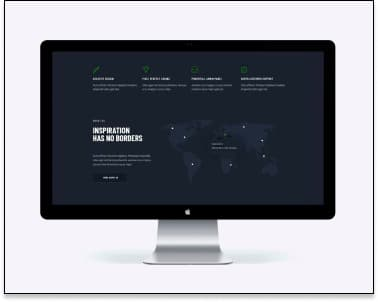
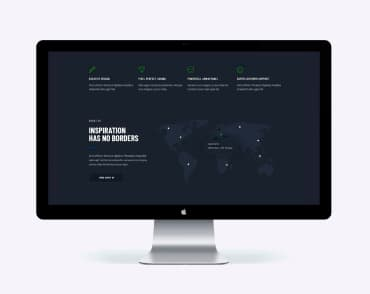
rework
rework

diff --git a/portfolio.html b/portfolio.html
@@ -49,67 +49,67 @@
 
     <main>
         
-        <section class="portfolio">
+        <section class="section">
             <div class="container">
             <h1 class="visually-hidden">заглпвие</h1>
             
             <ul class="button-list">
-                <li><button class="btn" type="button">Все</button></li>
-                <li><button class="btn" type="button">Веб-сайты</button></li>
-                <li><button class="btn" type="button">Приложения</button></li>
-                <li><button class="btn" type="button">Дизайн</button></li>
-                <li><button class="btn" type="button">Маркетинг</button></li>
+                <li class="filter-button"><button class="btn" type="button">Все</button></li>
+                <li class="filter-button"><button class="btn" type="button">Веб-сайты</button></li>
+                <li class="filter-button"><button class="btn" type="button">Приложения</button></li>
+                <li class="filter-button"><button class="btn" type="button">Дизайн</button></li>
+                <li class="filter-button"><button class="btn" type="button">Маркетинг</button></li>
             </ul>
 
             <ul class="list portfolio-list">
-                    <li class="item"><img src="./images/homework-2/img-2-1.jpg" alt="фото" width="370" height="294">
+                    <li class="item card-example"><img src="./images/homework-2/img-2-1.jpg" alt="фото" width="370" height="294">
                             <div class="portfolio-about"> <h2 class="image name-works">Технокряк</h2>
-                            <p>Веб-сайт</p></div>
+                            <p class="type">Веб-сайт</p></div>
                     </li>
                     
-                    <li class="item"><img src="./images/homework-2/img-2-2.jpg" alt="фото" width="370" height="294">
+                    <li class="item card-example"><img src="./images/homework-2/img-2-2.jpg" alt="фото" width="370" height="294">
                             <div class="portfolio-about"><h2 class="image name-works">Постер New Orlean vs Golden Star</h2>
                             <p class="type">Дизайн</p>
                             </div>
                     </li>
 
-                    <li class="item"><img src="./images/homework-2/img-2-3.jpg" alt="фото" width="370" height="294">
+                    <li class="item card-example"><img src="./images/homework-2/img-2-3.jpg" alt="фото" width="370" height="294">
                             <div class="portfolio-about"> <h2 class="image name-works">Ресторан Seafood</h2>
                             <p class="type">Приложение</p>
                             </div>
                     </li>
 
-                    <li class="item"><img src="./images/homework-2/img-2-4.jpg" alt="фото" width="370" height="294">
-                            <div class="portfolio-about> <h2 class="image name-works">Проект Prime</h2>
+                    <li class="item card-example"><img src="./images/homework-2/img-2-4.jpg" alt="фото" width="370" height="294">
+                            <div class="portfolio-about"> <h2 class="image name-works">Проект Prime</h2>
                             <p class="type">Маркетинг</p>
                             </div>
                     </li>
                 
-                    <li class="item"><img src="./images/homework-2/img-2-5.jpg" alt="фото" width="370" height="294">
+                    <li class="item card-example"><img src="./images/homework-2/img-2-5.jpg" alt="фото" width="370" height="294">
                             <div class="portfolio-about"> <h2 class="image name-works">Проект Boxes</h2>
                             <p class="type">Приложение</p>
                             </div>
                     </li>
            
-                    <li class="item"><img src="./images/homework-2/img-2-6.jpg" alt="фото" width="370" height="294">
+                    <li class="item card-example"><img src="./images/homework-2/img-2-6.jpg" alt="фото" width="370" height="294">
                             <div class="portfolio-about"> <h2 class="image name-works">Inspiration has no Borders</h2>
                             <p class="type">Веб-сайт</p>
                             </div>
                     </li>
            
-                    <li class="item"><img src="./images/homework-2/img-2-7.jpg" alt="фото" width="370" height="294">
+                    <li class="item card-example"><img src="./images/homework-2/img-2-7.jpg" alt="фото" width="370" height="294">
                             <div class="portfolio-about"> <h2 class="image name-works">Издание Limited Edition</h2>
-                            <p>Дизайн</p>
+                            <p class="type">Дизайн</p>
                             </div>
                     </li>
                 
-                    <li class="item"><img src="./images/homework-2/img-2-8.jpg" alt="фото" width="370" height="294">
+                    <li class="item card-example"><img src="./images/homework-2/img-2-8.jpg" alt="фото" width="370" height="294">
                             <div class="portfolio-about"> <h2 class="image name-works">Проект LAB</h2>
                             <p class="type">Маркетинг</p>
                             </div>
                     </li>
                 
-                    <li class="item"><img src="./images/homework-2/img-2-9.jpg" alt="фото" width="370" height="294">
+                    <li class="item card-example"><img src="./images/homework-2/img-2-9.jpg" alt="фото" width="370" height="294">
                             <div class="portfolio-about"> <h2 class="image name-works">Growing Business</h2>
                             <p class="type">Приложение</p>
                             </div>

diff --git a/index.html b/index.html
@@ -32,14 +32,14 @@
                     <li class="item-navigation item"><a  class="link link-navigation" href="Контакты">Контакты</a></li>
                 </ul>
             </nav>
-            <div class="header-group">
+            
                 <ul class="site-nav list">
                     <li class="group-item">
                         <a class="link-contact"  href="mailto:info@devstudio.com">info@devstudio.com</a></li>
                     <li class="group-item">
                         <a class="link-contact" href="tel:380961111111">+38 096 111 11 11</a></li>
                 </ul>
-            </div>
+            
         </div>
 
     </header>
@@ -58,25 +58,25 @@
             </div>
         </section>
 
-        <section class="privilege">
+        <section class="section">
             <div class="container">
                 <h2 class="visually-hidden">Особенности</h2>
                  <ul class="list visually-list">
-                   <li class="item">
+                   <li class="item visually-list-item">
                      <h3 class="features">Внимание к деталям</h3>
                      <p class="description">Идейные соображения, а также начало повседневной работы по формированию позиции.</p>
                   </li>
 
-                  <li class="item">
+                  <li class="item visually-list-item">
                      <h3 class="features">Пунктуальность </h3>
                      <p class="description">Задача организации, в особенности же рамки и место обучения кадров влечет за собой.</p>
                   </li>
 
-                  <li class="item">
+                  <li class="item visually-list-item">
                        <h3 class="features">Планирование </h3>
                        <p class="description">Равным образом консультация с широким активом в значительной степени обуславливает.</p>
                  </li>
-                  <li class="item">
+                  <li class="item visually-list-item">
                      <h3 class="features">Современные технологии </h3>
                      <p class="description">Значимость этих проблем настолько очевидна, что реализация плановых заданий.</p>
                   </li>
@@ -84,7 +84,7 @@
             </div>
         </section>
 
-        <section class="doing">
+        <section class="section doing">
             <div class="container">
                  <h2 class="header-section">Чем мы занимаемся</h2>
                      <ul class="list doing-list">
@@ -95,33 +95,33 @@
             </div>
         </section>
 
-        <section class="team">
+        <section class="section team">
             <div class="container">
 
                 <h2 class="header-section">Наша команда</h2>
                     <ul class="list team-list">
-                    <li>
+                    <li class="card">
                         <img src="./images/homework-1/team/img-3.jpg" alt="Игорь Демьяненко" width="270" height="260">
                         <div class="command-title">
                               <h3 class="name">Игорь Демьяненко</h3>
                               <p class="job">Product Designer</p>
                         </div>
                     </li>
-                    <li>
+                    <li class="card">
                         <img src="./images/homework-1/team/img-4.jpg" width="270" height="260">
                         <div class="command-title">
                               <h3 class="name">Ольга Репина</h3>
                              <p class="job">Frontend Developer</p>
                         </div>
                     </li>
-                    <li>
+                    <li class="card">
                         <img src="./images/homework-1/team/img-5.jpg" width="270" height="260">
                         <div class="command-title">
                              <h3 class="name">Николай Тарасов</h3>
                              <p class="job">Marketing</p>
                         </div>
                     </li>
-                    <li>
+                    <li class="card">
                         <img src="./images/homework-1/team/img-6.jpg" width="270" height="260">
                         <div class="command-title">
                              <h3 class="name">Михаил Ермаков</h3>
@@ -135,9 +135,9 @@
      </main>
 
     <footer class="footer">
-        <div class="container">
+        <div class="container footer-flex">
                
-            <a class="logotype" href="./index.html">
+            <a class="logotype logo-position" href="./index.html">
             <span class="logotype start">Web</span><span class="logotype end">Studio</span>
             </a>
             

diff --git a/css/styles.css b/css/styles.css
@@ -29,6 +29,12 @@ p {
     color: inherit;
 }
 
+ul{
+    margin: 0;
+    padding: 0;
+    list-style: none;
+}
+
 img {
     display: block;
     max-width: 100%;
@@ -69,6 +75,7 @@ body{
 outline: 2px solid red;
 display: flex;
 align-items: center;
+
 }
 
 
@@ -105,6 +112,7 @@ align-items: center;
 /* nav */
 .navigation-list {
     display: flex;
+    
 }
 
 
@@ -158,6 +166,7 @@ padding-bottom: 32px;
 
 .group-item{
     list-style-type: none;
+    margin-left: 50px;
     }
 
 .link-contact{
@@ -171,13 +180,10 @@ padding-bottom: 32px;
 
 .site-nav.list{
     display: flex;
-
+margin-left: auto;
 }
 
-.link-contact {
-    margin-left: 50px;
 
-}
 /* навигация  */
 
 .link-navigation:hover {
@@ -222,7 +228,7 @@ cursor: pointer;
     display: flex;
 }
 
-.visually-list li {
+.visually-list .visually-list-item {
     width: 270px;
 }
 
@@ -280,7 +286,7 @@ cursor: pointer;
 .header-section{
 font-weight: 700;
 font-size: 36px;
-line-height: 1.6;
+line-height: 1.16;
 letter-spacing: 0.03em;
 color: var(--title-text-color);
 
@@ -289,7 +295,7 @@ margin-bottom: 50px;
 }
 /* особо */
 
-.privilege {
+.section {
     padding-top: 94px;
     padding-bottom: 94px;
 }
@@ -321,7 +327,7 @@ color: var(--primary-text-color);
 
 
 .doing {
-    padding-bottom: 94px;
+    padding-top: 0px;
 }
 .doing-list{
      display: flex;
@@ -344,8 +350,7 @@ color: var(--primary-text-color);
 
 .team {
     background: #F5F4FA;
-    padding-bottom: 94px;
-    padding-top: 94px;
+    
 }
 
 .list.team-list {
@@ -360,6 +365,7 @@ line-height: 1.8;
 text-align: center;
 letter-spacing: 0.03em;
 color: var(--title-text-color);
+margin-bottom: 10px;
 }
 
 .job{
@@ -369,12 +375,13 @@ line-height: 1.8;
 text-align: center;
 letter-spacing: 0.03em;
 color: var(--primary-text-color);
-margin-bottom: 10px;
+
 }
 
 
 
-.team-list li {
+.team-list .card {
+    background-color: var(--primary-background-color);
     margin-right: 30px;
     box-shadow: 0px 1px 3px rgba(0, 0, 0, 0.12), 0px 1px 1px rgba(0, 0, 0, 0.14), 0px 2px 1px rgba(0, 0, 0, 0.2);
     border-radius: 0px 0px 4px 4px;
@@ -429,9 +436,9 @@ text-decoration: none;
 
 /* лого фут */
 
-.footer.logotype{
- display: block;
- margin-bottom: 20px;
+.footer .logo-position {
+    display: block;
+margin-bottom: 20px;
 }
 
 .logotype {
@@ -441,6 +448,8 @@ text-decoration: none;
     line-height: 1.19;
     letter-spacing: 0.03em;
     text-decoration: none;
+    
+    margin-bottom: 20px; 
 }
 
 .logotype .start {
@@ -465,10 +474,7 @@ margin-bottom: 9px;
 /* портфолио */
 
 
-.portfolio {
-    padding-top: 94px;
-    padding-bottom: 94px;
-}
+
 
 .portfolio-list {
     margin-top: 50px;
@@ -522,7 +528,7 @@ margin-bottom: 9px;
     justify-content: center;
 }
 
-.button-list li {
+.button-list .filter-button {
     margin-right: 8px;
 }
 
@@ -534,16 +540,16 @@ margin-bottom: 9px;
     display: flex;
     flex-wrap: wrap;
 }
-.portfolio-list li {
+.portfolio-list .card-example {
     margin-right: 30px;
     margin-bottom: 30px;
 }
 
-.portfolio-list li:nth-child(3n) {
+.portfolio-list .card-example:nth-child(3n) {
     margin-right: 0;
 }
 
-.portfolio-list li:nth-last-child(-n + 3) {
+.portfolio-list .card-example:nth-last-child(-n + 3) {
     margin-bottom: 0;
 }
 
